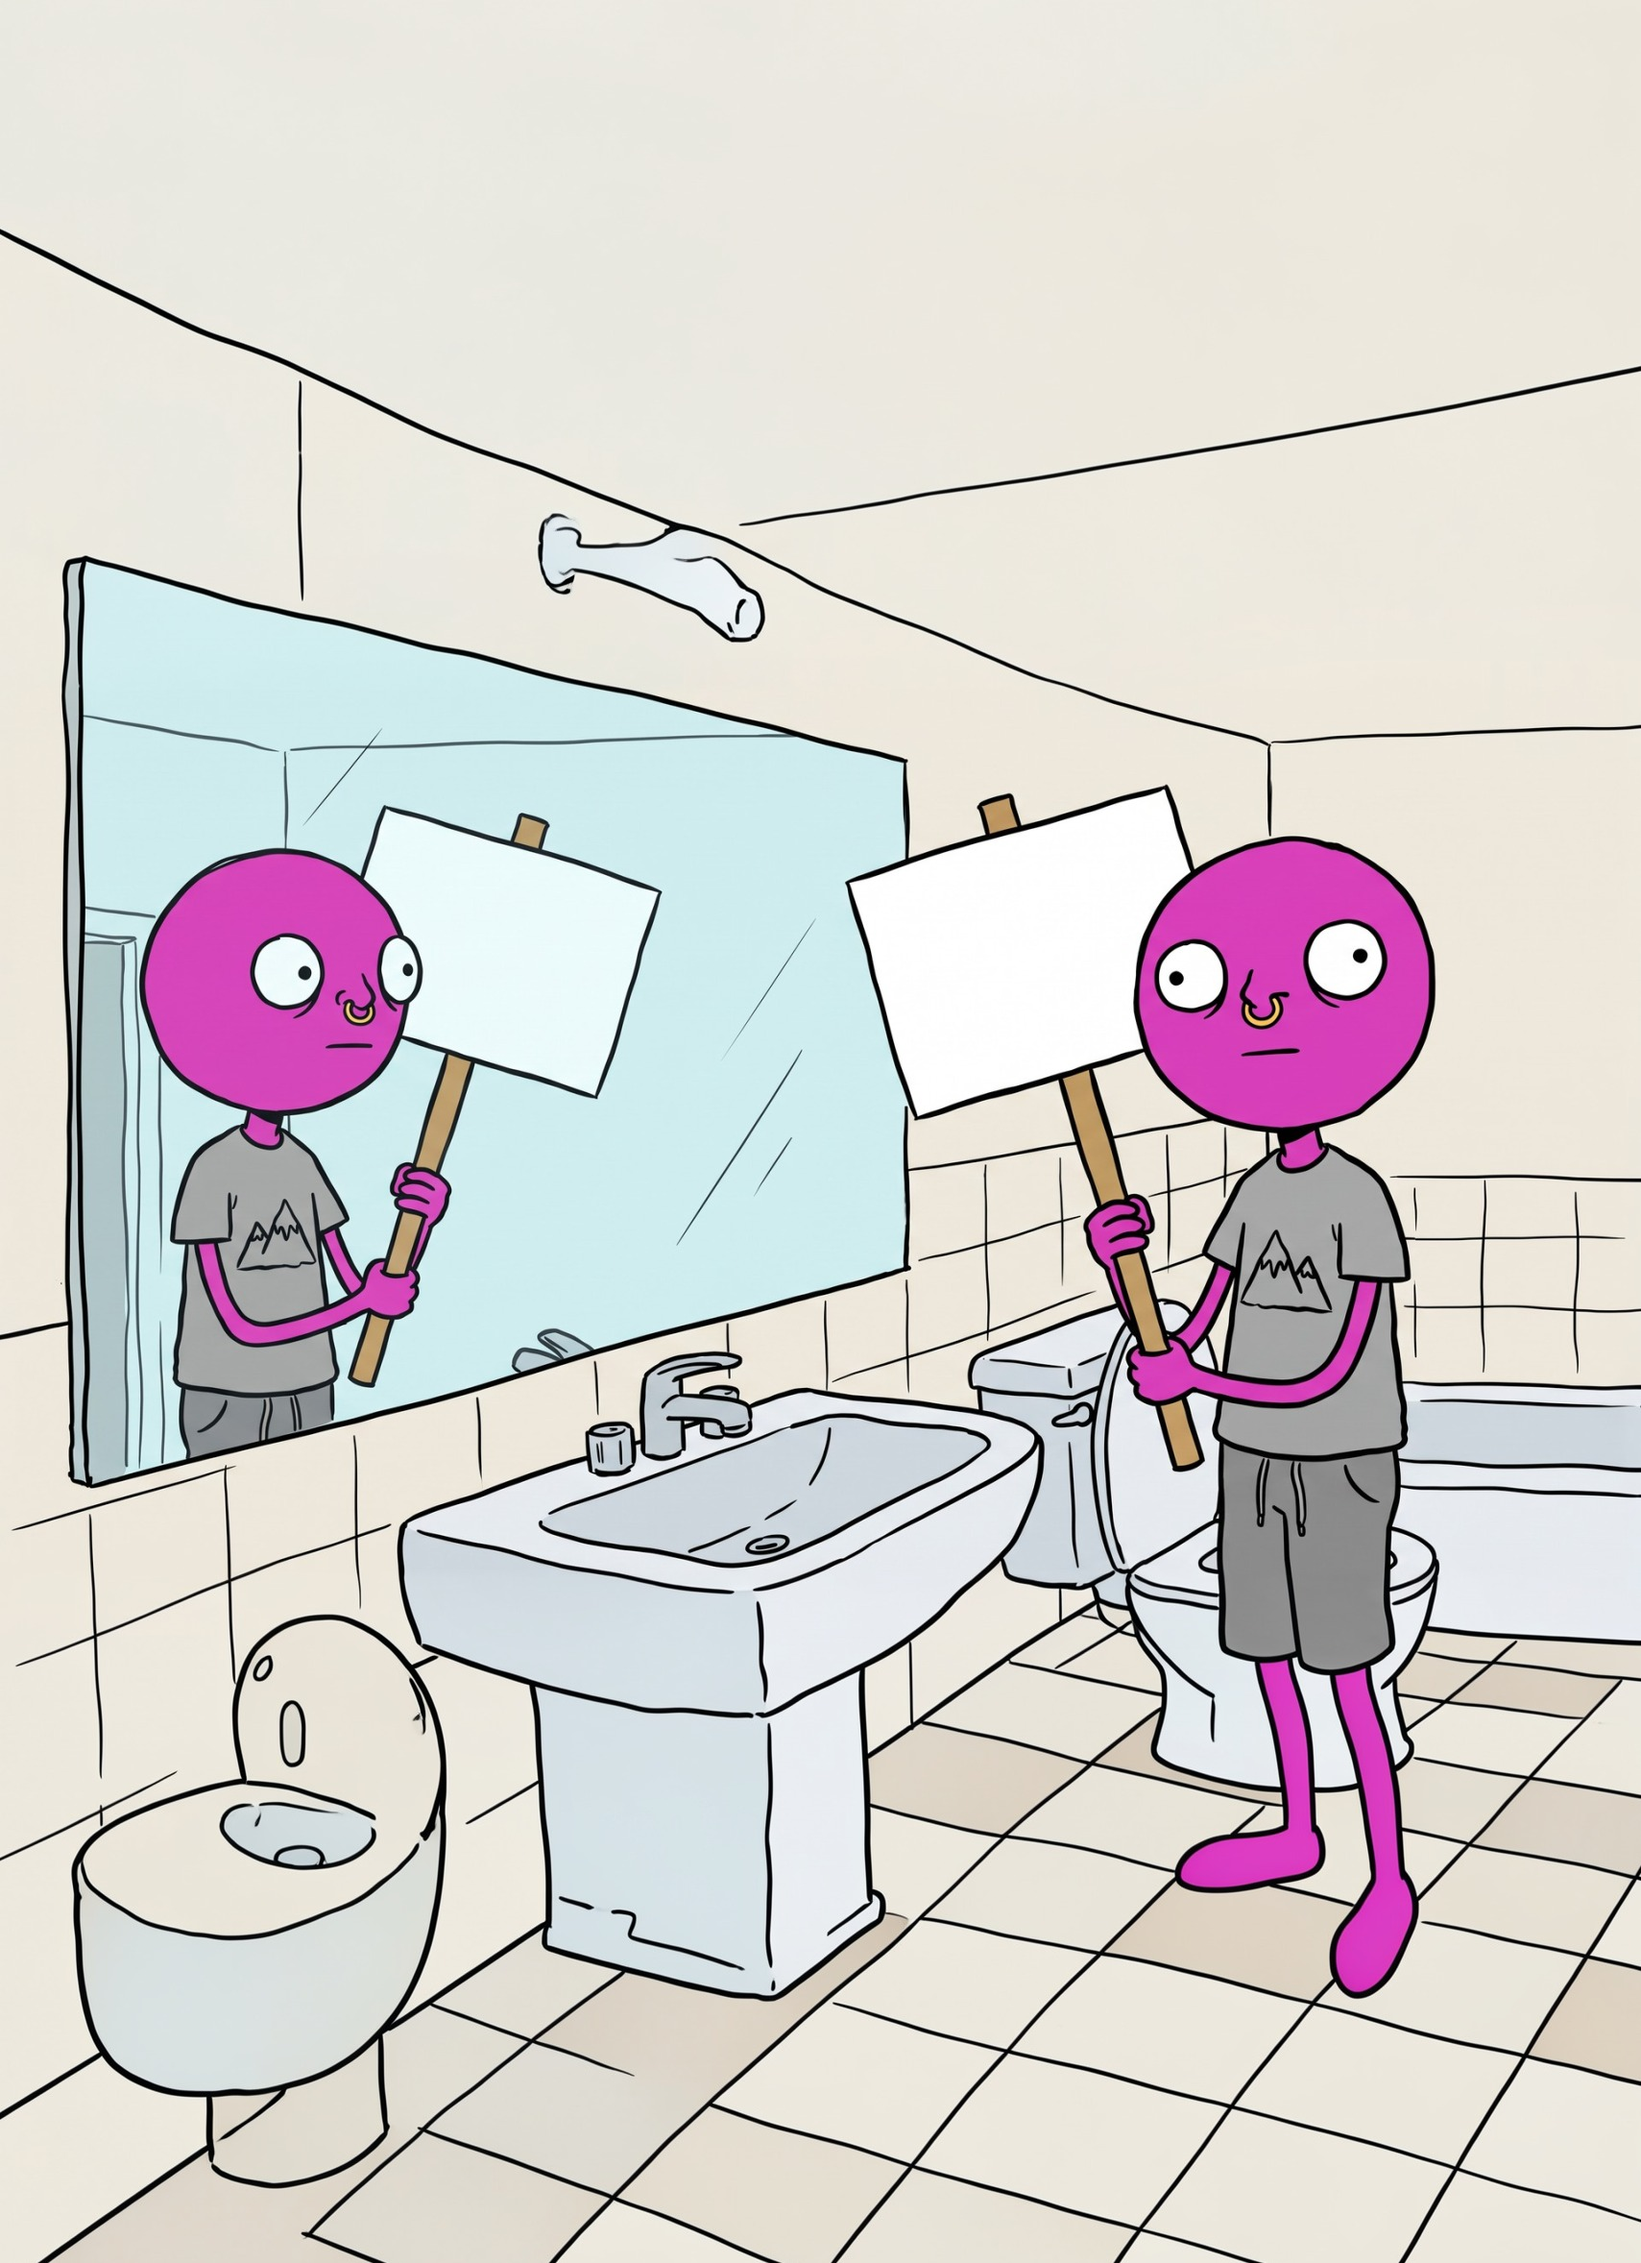
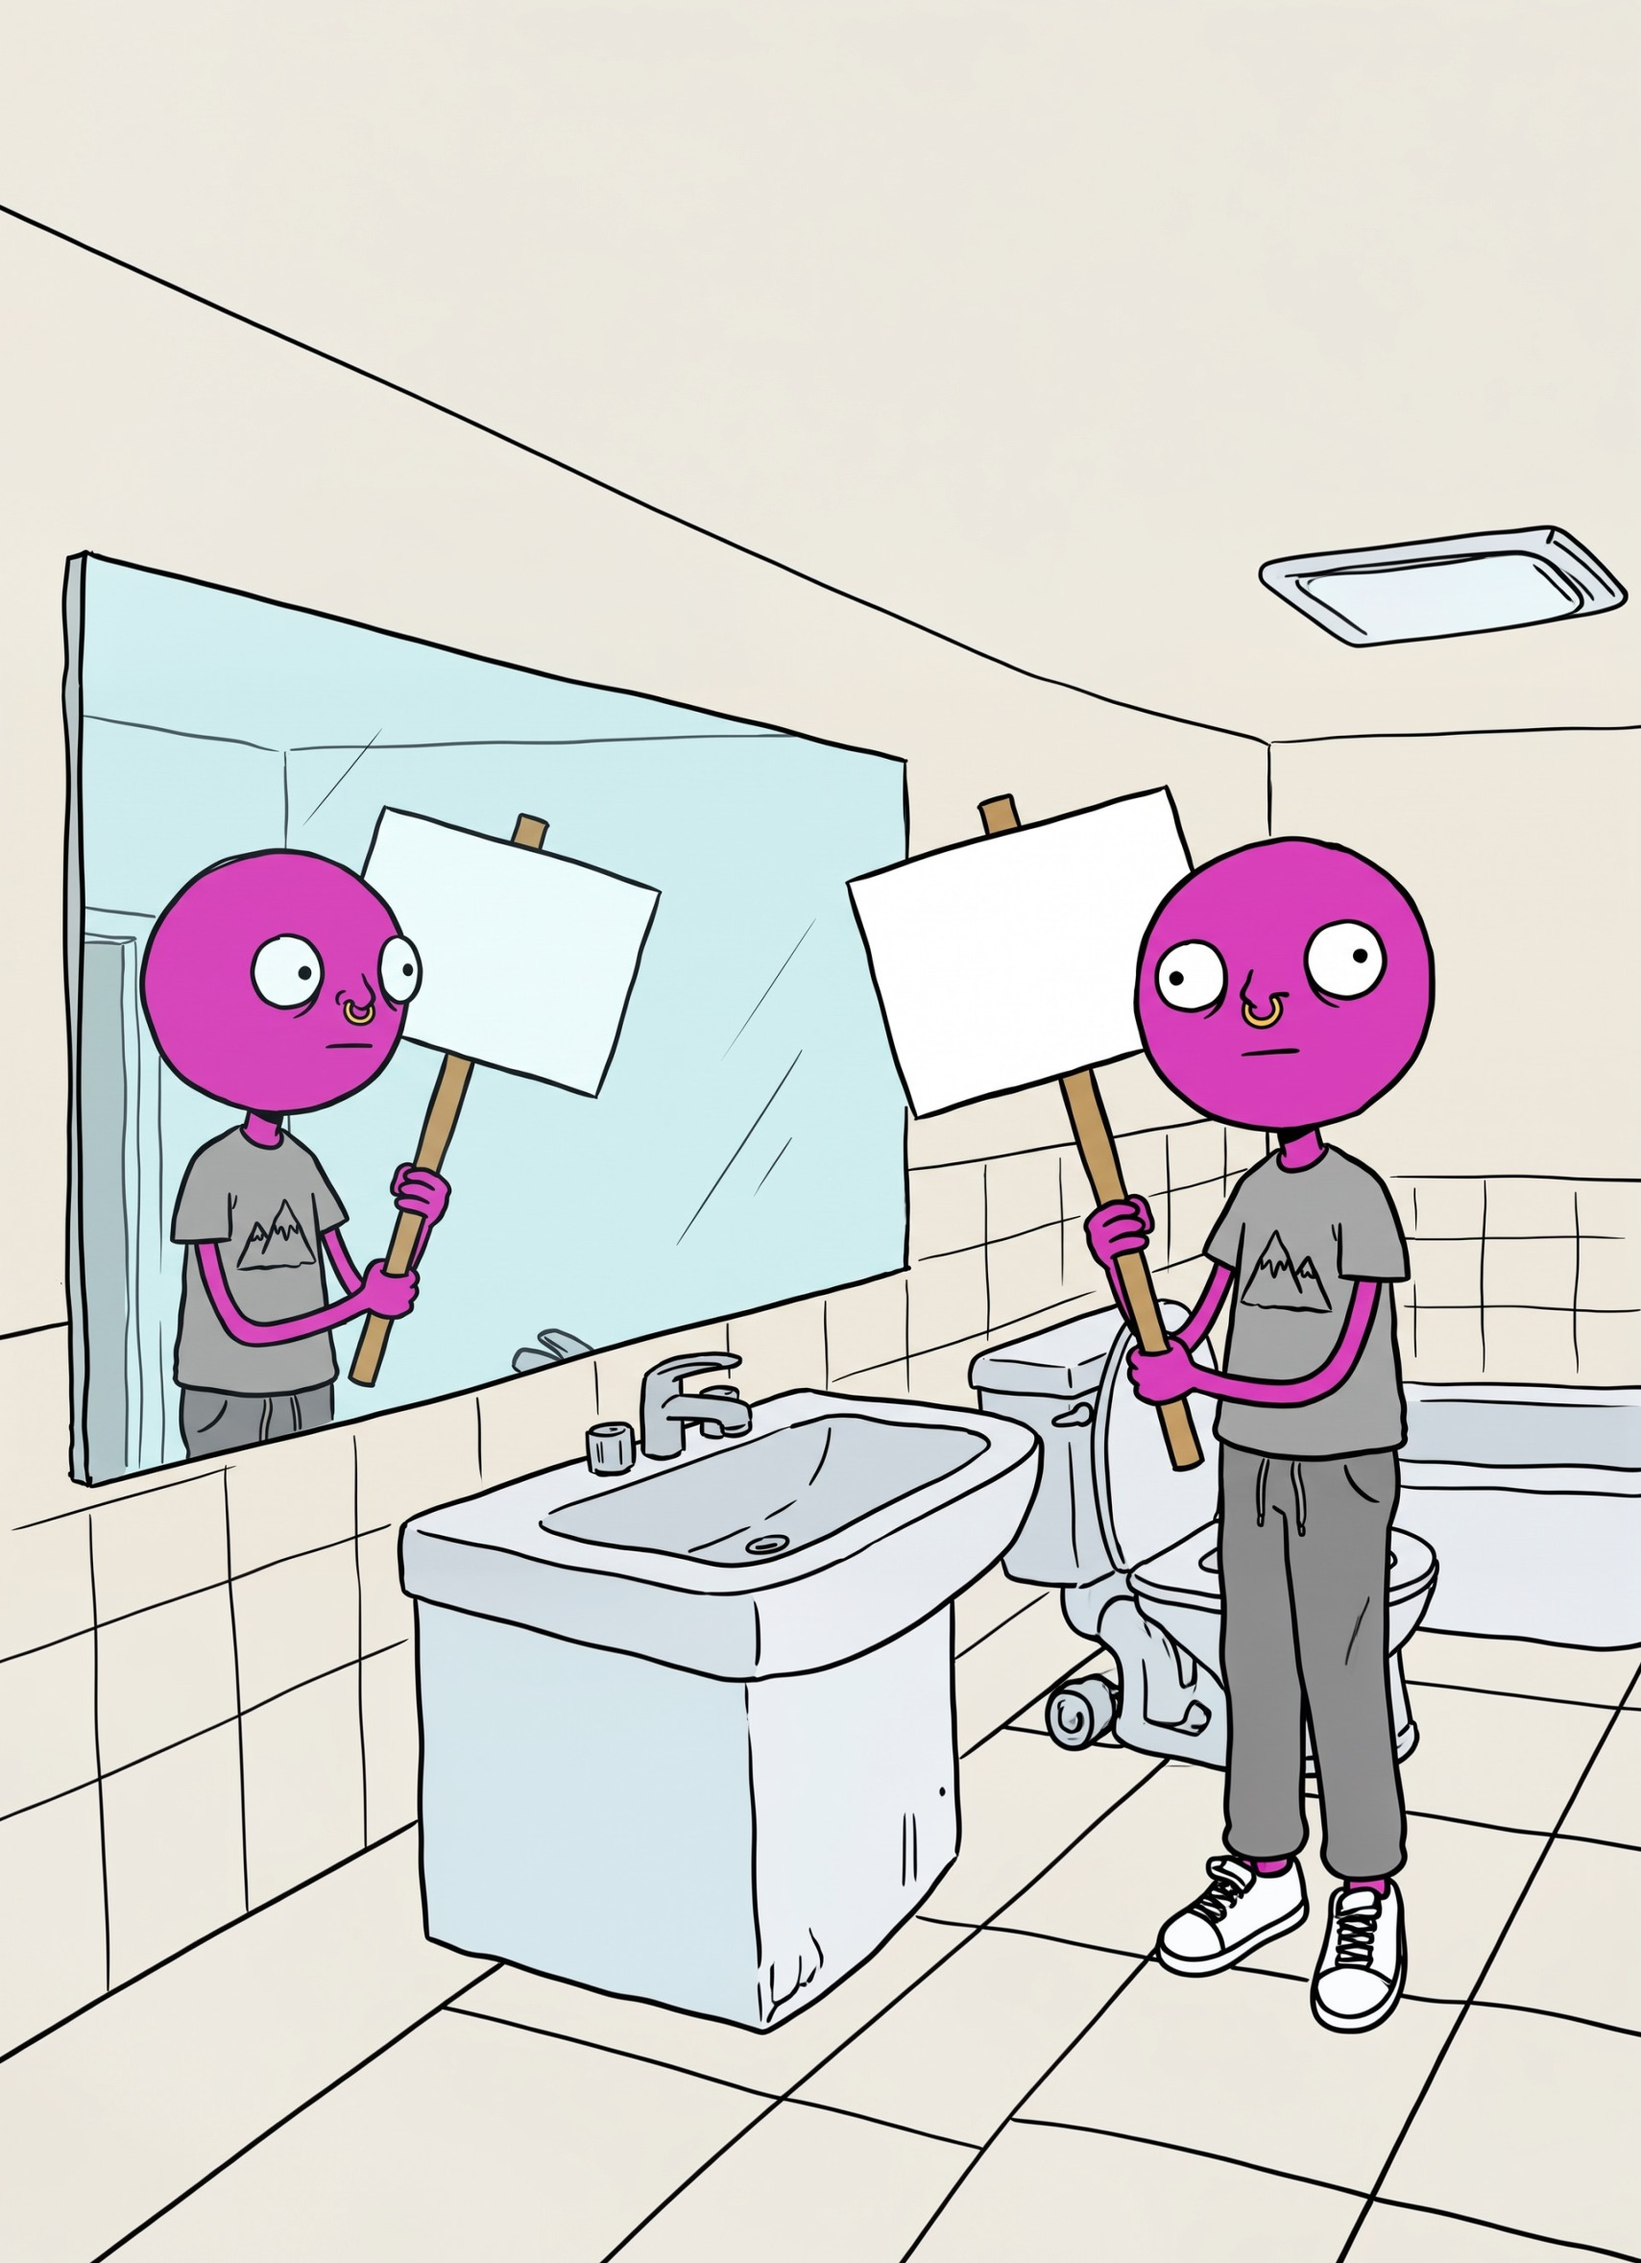
Short 1: sin el dibujo de tres brazos y ampliaciones con su pantalón largo
Claude-Session: https://claude.ai/code/session_01W1d2B3tJHY5s1jRup8PdJX

diff --git a/herramientas/shorts/domingo/short1_plan.py b/herramientas/shorts/domingo/short1_plan.py
@@ -10,7 +10,7 @@ P = [
  br('pulsera_quieta', 8.5, cx=0.5, cambios=[ch(9.07, 'pulsera_vibra')], rotulos=[R(9.07, '8.432 PASOS', 540, 330, 'negro', 110)]),
  esc('es_cama_mini', 10.38, marco=1.55, cx=0.38, cambios=[ch(12.34, 'es_cama_mini_b')],
      rotulos=[D(10.94, '62', 602, 105, tam=60, t1=12.34), D(12.37, '4', 580, 60, 'rojo', 70)]),
- esc('es_bib_mito', 13.89, marco=1.75, cx=0.66, ly=-0.07, cambios=[ch(16.75, 'es_bib_mito_b')],
+ esc('es_bib_mito', 13.89, marco=1.6, cx=0.62, cambios=[ch(16.75, 'es_bib_mito_b')],
      objetos=[{'t0': 14.96, 't1': 16.79, 'img': I+'foto_han.png', 'x': 540, 'y': 300, 'w': 300}],
      rotulos=[R(14.96, 'BYUNG-CHUL HAN', 540, 70, 'blanco', 58, t1=16.79), R(14.96, 'Foto: ActuaLitté (CC BY-SA 2.0)', 540, 1860, 'blanco', 26, t1=16.79),
               R(16.8, 'PROMETEO', 540, 230, 'blanco', 110)]),
@@ -23,7 +23,7 @@ P = [
     rotulos=[R(29.58, 'ENHORABUENA', 540, 230, 'negro', 110), D(32.11, '+12%', 995, 500, tam=44)]),
  esc('es_ofi_doble', 33.77, marco=1.35, cx=0.52, cambios=[ch(34.32, 'es_ofi_doble_b'), ch(34.94, 'es_ofi_doble_c'), ch(37.07, 'es_ofi_doble_d')],
      rotulos=[D(37.1, 'HUELGA', 417, 140, tam=44), D(37.1, 'HUELGA', 1745, 150, tam=44)]),
- esc('es_bano_pancarta', 37.93, marco=1.45, cx=0.56, cambios=[ch(40.06, 'es_bano_pancarta_b')], rotulos=[D(38.0, 'HUELGA', 1180, 320, tam=60)]),
+ esc('es_bano_pancarta', 37.93, marco=1.45, cx=0.56, rotulos=[D(38.0, 'HUELGA', 1180, 320, tam=60)]),
 ]
 P = lleno(P)
 json.dump({'alineacion': 'voz/short1.json', 'audio': 'voz/short1.mp3', 'pantalon': 'gris', 'sin_recolor': ['es_cama_mini'], 'duracion': 42.6, 'planos': P},
